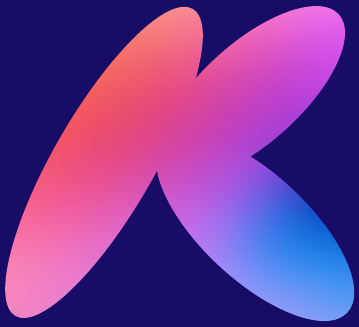
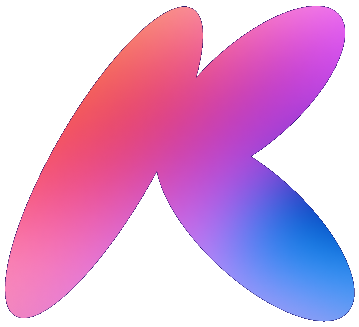
Update miniapp design: transparent brand K, real ticket notch mask, rename save button, dark theme polish

diff --git a/app.js b/app.js
@@ -112,7 +112,7 @@ function openTicket(event=null,ticket=null){
   $('session').replaceChildren();for(const at of event?.sessions||[]){const option=element('option',when(at));option.value=at;$('session').append(option);}
   if(ticket&&event)$('session').value=ticket.eventAt;
   for(const input of document.querySelectorAll('input[name=hours]'))input.checked=(ticket?.hours||[2]).includes(Number(input.value));
-  $('save').firstChild.textContent=ticket?'Сохранить напоминания ':'Билет куплен — сохранить ';
+  $('save').firstChild.textContent='Сохранить ';
   $('manual-toggle').setAttribute('aria-expanded','true');syncOffsets();$('ticket-form').scrollIntoView({behavior:'smooth',block:'start'});
 }
 async function loadTickets(){
@@ -153,14 +153,64 @@ function renderTickets(){
     list.append(empty);return;
   }
   for(const ticket of items){
-    const isTicket=ticket.kind==='ticket',card=element('article',undefined,'card ticket'+(isTicket?'':' venue-event')),date=element('time',when(ticket.eventAt));date.dateTime=new Date(ticket.eventAt).toISOString();
-    card.append(element('span',isTicket?'БИЛЕТ И НАПОМИНАНИЯ':'С ЛЮБИМОЙ ПЛОЩАДКИ','event-kind'),date,element('h2',ticket.title));
-    if(ticket.venues?.length)card.append(element('p',ticket.venues.map(v=>v.title).join(' · '),'venue-caption'));
-    const past=ticket.eventAt<=Date.now();if(isTicket)card.append(element('p',past?'Событие уже состоялось':reminderText(ticket.hours),'ticket-alert'));
-    if(ticket.link){const a=element('a','Открыть страницу события ↗');a.href=ticket.link;a.target='_blank';a.rel='noopener noreferrer';card.append(a);}
-    const actions=element('div',undefined,'ticket-actions');
-    if(!past){const edit=element('button',isTicket?'Изменить напоминания':'Я купил билет — напомнить','text-button');edit.type='button';edit.addEventListener('click',()=>{view('add');if(isTicket)openTicket(null,ticket);else openTicket({id:ticket.id,title:ticket.title,sessions:[ticket.eventAt]});});actions.append(edit);}
-    if(isTicket){const remove=element('button','Убрать билет','text-button remove');remove.type='button';remove.addEventListener('click',()=>action(remove,async()=>{await api('/tickets/'+ticket.id,undefined,'DELETE');let tickets=JSON.parse(localStorage.getItem(localTicketsKey)||'[]');tickets=tickets.filter(t=>t.id!==ticket.id);localStorage.setItem(localTicketsKey,JSON.stringify(tickets));await loadTickets();feedback('Билет убран. Оставшиеся напоминания отменены.');}));actions.append(remove);}card.append(actions);list.append(card);
+    const isTicket=ticket.kind==='ticket';
+    const card=element('article',undefined,'cultural-ticket'+(isTicket?' ticket-bought':' ticket-venue'));
+    const top=element('div',undefined,'ticket-top');
+    const header=element('div',undefined,'ticket-header');
+    header.append(element('span',isTicket?'● КУПЛЕН БИЛЕТ':'♡ С ПЛОЩАДКИ','ticket-type-pill'));
+    const dateChip=element('div',undefined,'ticket-date-chip');
+    const dateEl=element('time',when(ticket.eventAt),'day-time');
+    dateEl.dateTime=new Date(ticket.eventAt).toISOString();
+    dateChip.append(dateEl);
+    header.append(dateChip);
+    top.append(header);
+
+    const body=element('div',undefined,'ticket-body');
+    body.append(element('h2',ticket.title,'ticket-event-title'));
+    if(ticket.venues?.length)body.append(element('p',ticket.venues.map(v=>v.title).join(' · '),'ticket-venue-name'));
+    top.append(body);
+    card.append(top);
+
+    const perf=element('div',undefined,'ticket-perf');
+    card.append(perf);
+
+    const bottom=element('div',undefined,'ticket-bottom');
+    const footer=element('div',undefined,'ticket-footer');
+    const past=ticket.eventAt<=Date.now();
+    const reminderStatus=element('div',undefined,'reminder-status');
+    reminderStatus.append(element('span',isTicket?'🔔 ':'🏛 ','bell-icon'));
+    reminderStatus.append(element('span',past?'Событие уже состоялось':(isTicket?reminderText(ticket.hours):'Анонс площадки')));
+    footer.append(reminderStatus);
+
+    const actions=element('div',undefined,'ticket-actions-group');
+    if(!past){
+      const edit=element('button',isTicket?'Изменить':'Я купил билет','ticket-action-btn edit');
+      edit.type='button';
+      edit.addEventListener('click',()=>{view('add');if(isTicket)openTicket(null,ticket);else openTicket({id:ticket.id,title:ticket.title,sessions:[ticket.eventAt]});});
+      actions.append(edit);
+    }
+    if(ticket.link){
+      const a=element('a','На сайт ↗','ticket-action-link');
+      a.href=ticket.link;a.target='_blank';a.rel='noopener noreferrer';
+      actions.append(a);
+    }
+    if(isTicket){
+      const remove=element('button','Убрать','ticket-action-btn danger');
+      remove.type='button';
+      remove.addEventListener('click',()=>action(remove,async()=>{
+        await api('/tickets/'+ticket.id,undefined,'DELETE');
+        let tickets=JSON.parse(localStorage.getItem(localTicketsKey)||'[]');
+        tickets=tickets.filter(t=>t.id!==ticket.id);
+        localStorage.setItem(localTicketsKey,JSON.stringify(tickets));
+        await loadTickets();
+        feedback('Билет убран. Оставшиеся напоминания отменены.');
+      }));
+      actions.append(remove);
+    }
+    footer.append(actions);
+    bottom.append(footer);
+    card.append(bottom);
+    list.append(card);
   }
 }
 async function loadVenues(){

diff --git a/styles.css b/styles.css
@@ -18,3 +18,162 @@ fieldset{border:none;padding:0;margin:24px 0}legend{font-size:15px;font-weight:7
 .filter-tab{border:1px solid #ffffff30;border-radius:20px;background:#ffffff10;color:#e2def5;font-size:12px;font-weight:600;padding:7px 16px;cursor:pointer;white-space:nowrap;transition:background .15s,border-color .15s,color .15s}
 .filter-tab:hover{background:#ffffff20;border-color:#ffffff50}
 .filter-tab.active,.filter-tab[aria-selected=true]{background:var(--blue);color:var(--navy);border-color:var(--blue)}
+
+
+/* === ФИРМЕННЫЙ СТИЛЬ БИЛЕТОВ И СКВОЗНОЙ ВЫРЕЗ (Скриншот 3) === */
+.cultural-ticket {
+  position: relative;
+  background: transparent !important;
+  border: none !important;
+  padding: 0;
+  margin: 0 0 16px;
+  filter: drop-shadow(0 6px 20px rgba(0, 0, 0, 0.4));
+  transition: transform 0.2s ease;
+}
+.cultural-ticket:hover {
+  transform: translateY(-2px);
+}
+.ticket-top {
+  background: rgba(255, 255, 255, 0.08);
+  backdrop-filter: blur(14px);
+  -webkit-backdrop-filter: blur(14px);
+  border: 1px solid rgba(255, 255, 255, 0.15);
+  border-bottom: none;
+  border-radius: 16px 16px 0 0;
+  padding: 16px 18px 14px;
+  -webkit-mask-image: radial-gradient(circle 10px at 0 100%, transparent 9.5px, black 10px),
+                      radial-gradient(circle 10px at 100% 100%, transparent 9.5px, black 10px);
+  -webkit-mask-composite: source-in;
+  mask-image: radial-gradient(circle 10px at 0 100%, transparent 9.5px, black 10px),
+              radial-gradient(circle 10px at 100% 100%, transparent 9.5px, black 10px);
+  mask-composite: intersect;
+}
+.cultural-ticket.ticket-bought .ticket-top {
+  border-top: 3px solid var(--pink);
+}
+.cultural-ticket.ticket-venue .ticket-top {
+  border-top: 3px solid var(--blue);
+}
+.ticket-perf {
+  height: 0;
+  border-top: 1px dashed rgba(255, 255, 255, 0.22);
+  margin: 0 14px;
+  position: relative;
+}
+.ticket-bottom {
+  background: rgba(255, 255, 255, 0.08);
+  backdrop-filter: blur(14px);
+  -webkit-backdrop-filter: blur(14px);
+  border: 1px solid rgba(255, 255, 255, 0.15);
+  border-top: none;
+  border-radius: 0 0 16px 16px;
+  padding: 12px 18px 14px;
+  -webkit-mask-image: radial-gradient(circle 10px at 0 0, transparent 9.5px, black 10px),
+                      radial-gradient(circle 10px at 100% 0, transparent 9.5px, black 10px);
+  -webkit-mask-composite: source-in;
+  mask-image: radial-gradient(circle 10px at 0 0, transparent 9.5px, black 10px),
+              radial-gradient(circle 10px at 100% 0, transparent 9.5px, black 10px);
+  mask-composite: intersect;
+}
+.ticket-header {
+  display: flex;
+  justify-content: space-between;
+  align-items: center;
+  gap: 10px;
+  margin-bottom: 12px;
+}
+.ticket-type-pill {
+  font-size: 10px;
+  font-weight: 700;
+  letter-spacing: 0.08em;
+  text-transform: uppercase;
+  color: var(--pink);
+  background: rgba(242, 123, 207, 0.14);
+  padding: 4px 10px;
+  border-radius: 20px;
+  border: 1px solid rgba(242, 123, 207, 0.28);
+}
+.ticket-venue .ticket-type-pill {
+  color: var(--blue);
+  background: rgba(113, 215, 255, 0.14);
+  border-color: rgba(113, 215, 255, 0.28);
+}
+.ticket-date-chip .day-time {
+  font-size: 13px;
+  font-weight: 700;
+  color: #fff;
+  background: rgba(255, 255, 255, 0.12);
+  padding: 4px 10px;
+  border-radius: 8px;
+  display: inline-block;
+}
+.ticket-event-title {
+  margin: 4px 0 8px;
+  font-size: 20px;
+  font-weight: 700;
+  line-height: 1.25;
+  color: #fff;
+}
+.ticket-venue-name {
+  font-size: 13px;
+  color: #d1caeb;
+  margin: 0;
+}
+.ticket-footer {
+  display: flex;
+  justify-content: space-between;
+  align-items: center;
+  flex-wrap: wrap;
+  gap: 10px;
+}
+.reminder-status {
+  font-size: 12px;
+  color: #e2def5;
+  display: flex;
+  align-items: center;
+  gap: 6px;
+}
+.ticket-actions-group {
+  display: flex;
+  align-items: center;
+  gap: 10px;
+  margin-left: auto;
+}
+.ticket-action-btn, .ticket-action-link {
+  font-size: 12px;
+  font-weight: 600;
+  background: none;
+  border: none;
+  padding: 6px 12px;
+  border-radius: 8px;
+  cursor: pointer;
+  text-decoration: none;
+  display: inline-flex;
+  align-items: center;
+  transition: all 0.15s ease;
+}
+.ticket-action-btn.edit {
+  color: var(--blue);
+  background: rgba(113, 215, 255, 0.12);
+  border: 1px solid rgba(113, 215, 255, 0.3);
+}
+.ticket-action-btn.edit:hover {
+  background: rgba(113, 215, 255, 0.24);
+}
+.ticket-action-link {
+  color: #d1caeb;
+  background: rgba(255, 255, 255, 0.08);
+  border: 1px solid rgba(255, 255, 255, 0.18);
+}
+.ticket-action-link:hover {
+  color: #fff;
+  background: rgba(255, 255, 255, 0.16);
+}
+.ticket-action-btn.danger {
+  color: #ff8ca3;
+  background: rgba(255, 70, 100, 0.12);
+  border: 1px solid rgba(255, 70, 100, 0.3);
+}
+.ticket-action-btn.danger:hover {
+  background: rgba(255, 70, 100, 0.24);
+}

diff --git a/index.html b/index.html
@@ -34,7 +34,7 @@
             <label class="offset"><input type="checkbox" name="hours" value="2" checked><span><strong>За 2 часа</strong><small>Время собираться</small></span></label>
             <label class="offset"><input type="checkbox" name="hours" value="24"><span><strong>За сутки</strong><small>Спланировать день</small></span></label>
           </div><p id="offset-note" class="hint"></p></fieldset>
-          <button id="save" type="submit" class="primary">Билет куплен — сохранить <span aria-hidden="true">✓</span></button><p class="fine-print">Покупку отмечаете вы. Бот не проверяет оплату.</p>
+          <button id="save" type="submit" class="primary">Сохранить <span aria-hidden="true">✓</span></button><p class="fine-print">Покупку отмечаете вы. Бот не проверяет оплату.</p>
         </form>
         <aside class="how-it-works"><span class="mini-icon" aria-hidden="true"><img src="./lizard-harp.svg" width="28" height="30" alt=""></span><p>Спокойно планируйте вечер.<br><span>Напоминание придёт сообщением в MAX.</span></p></aside>
       </section>
